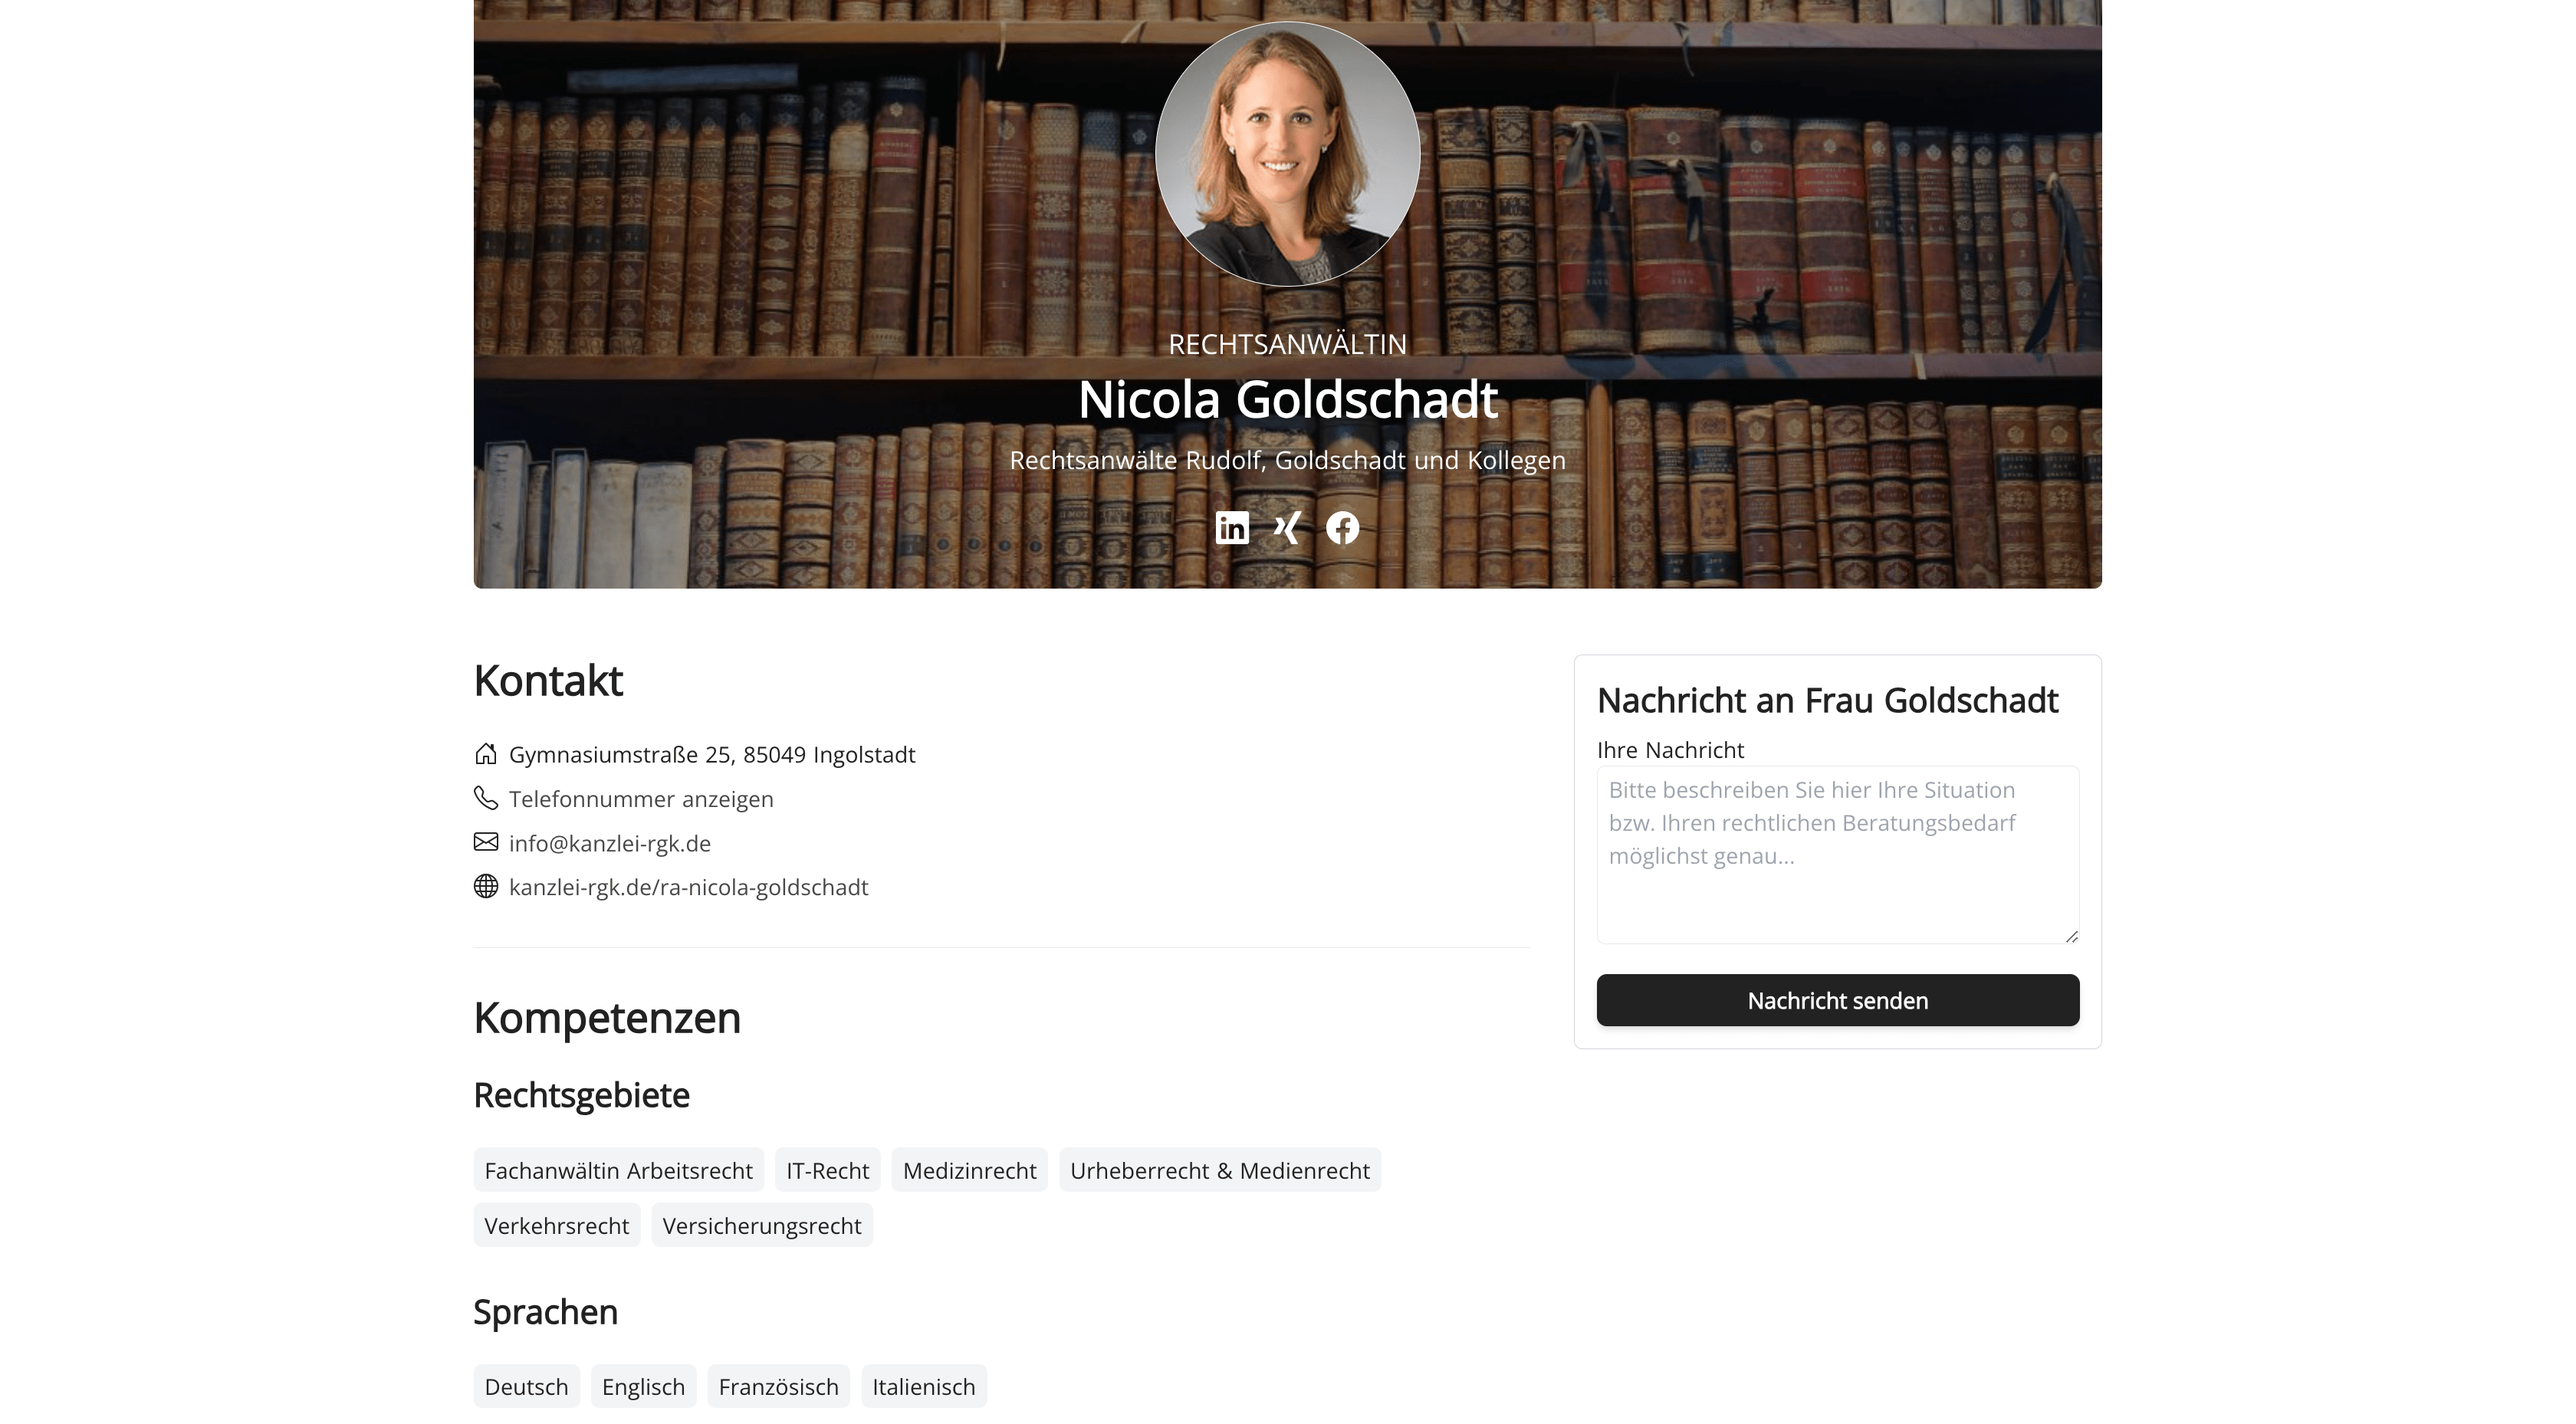
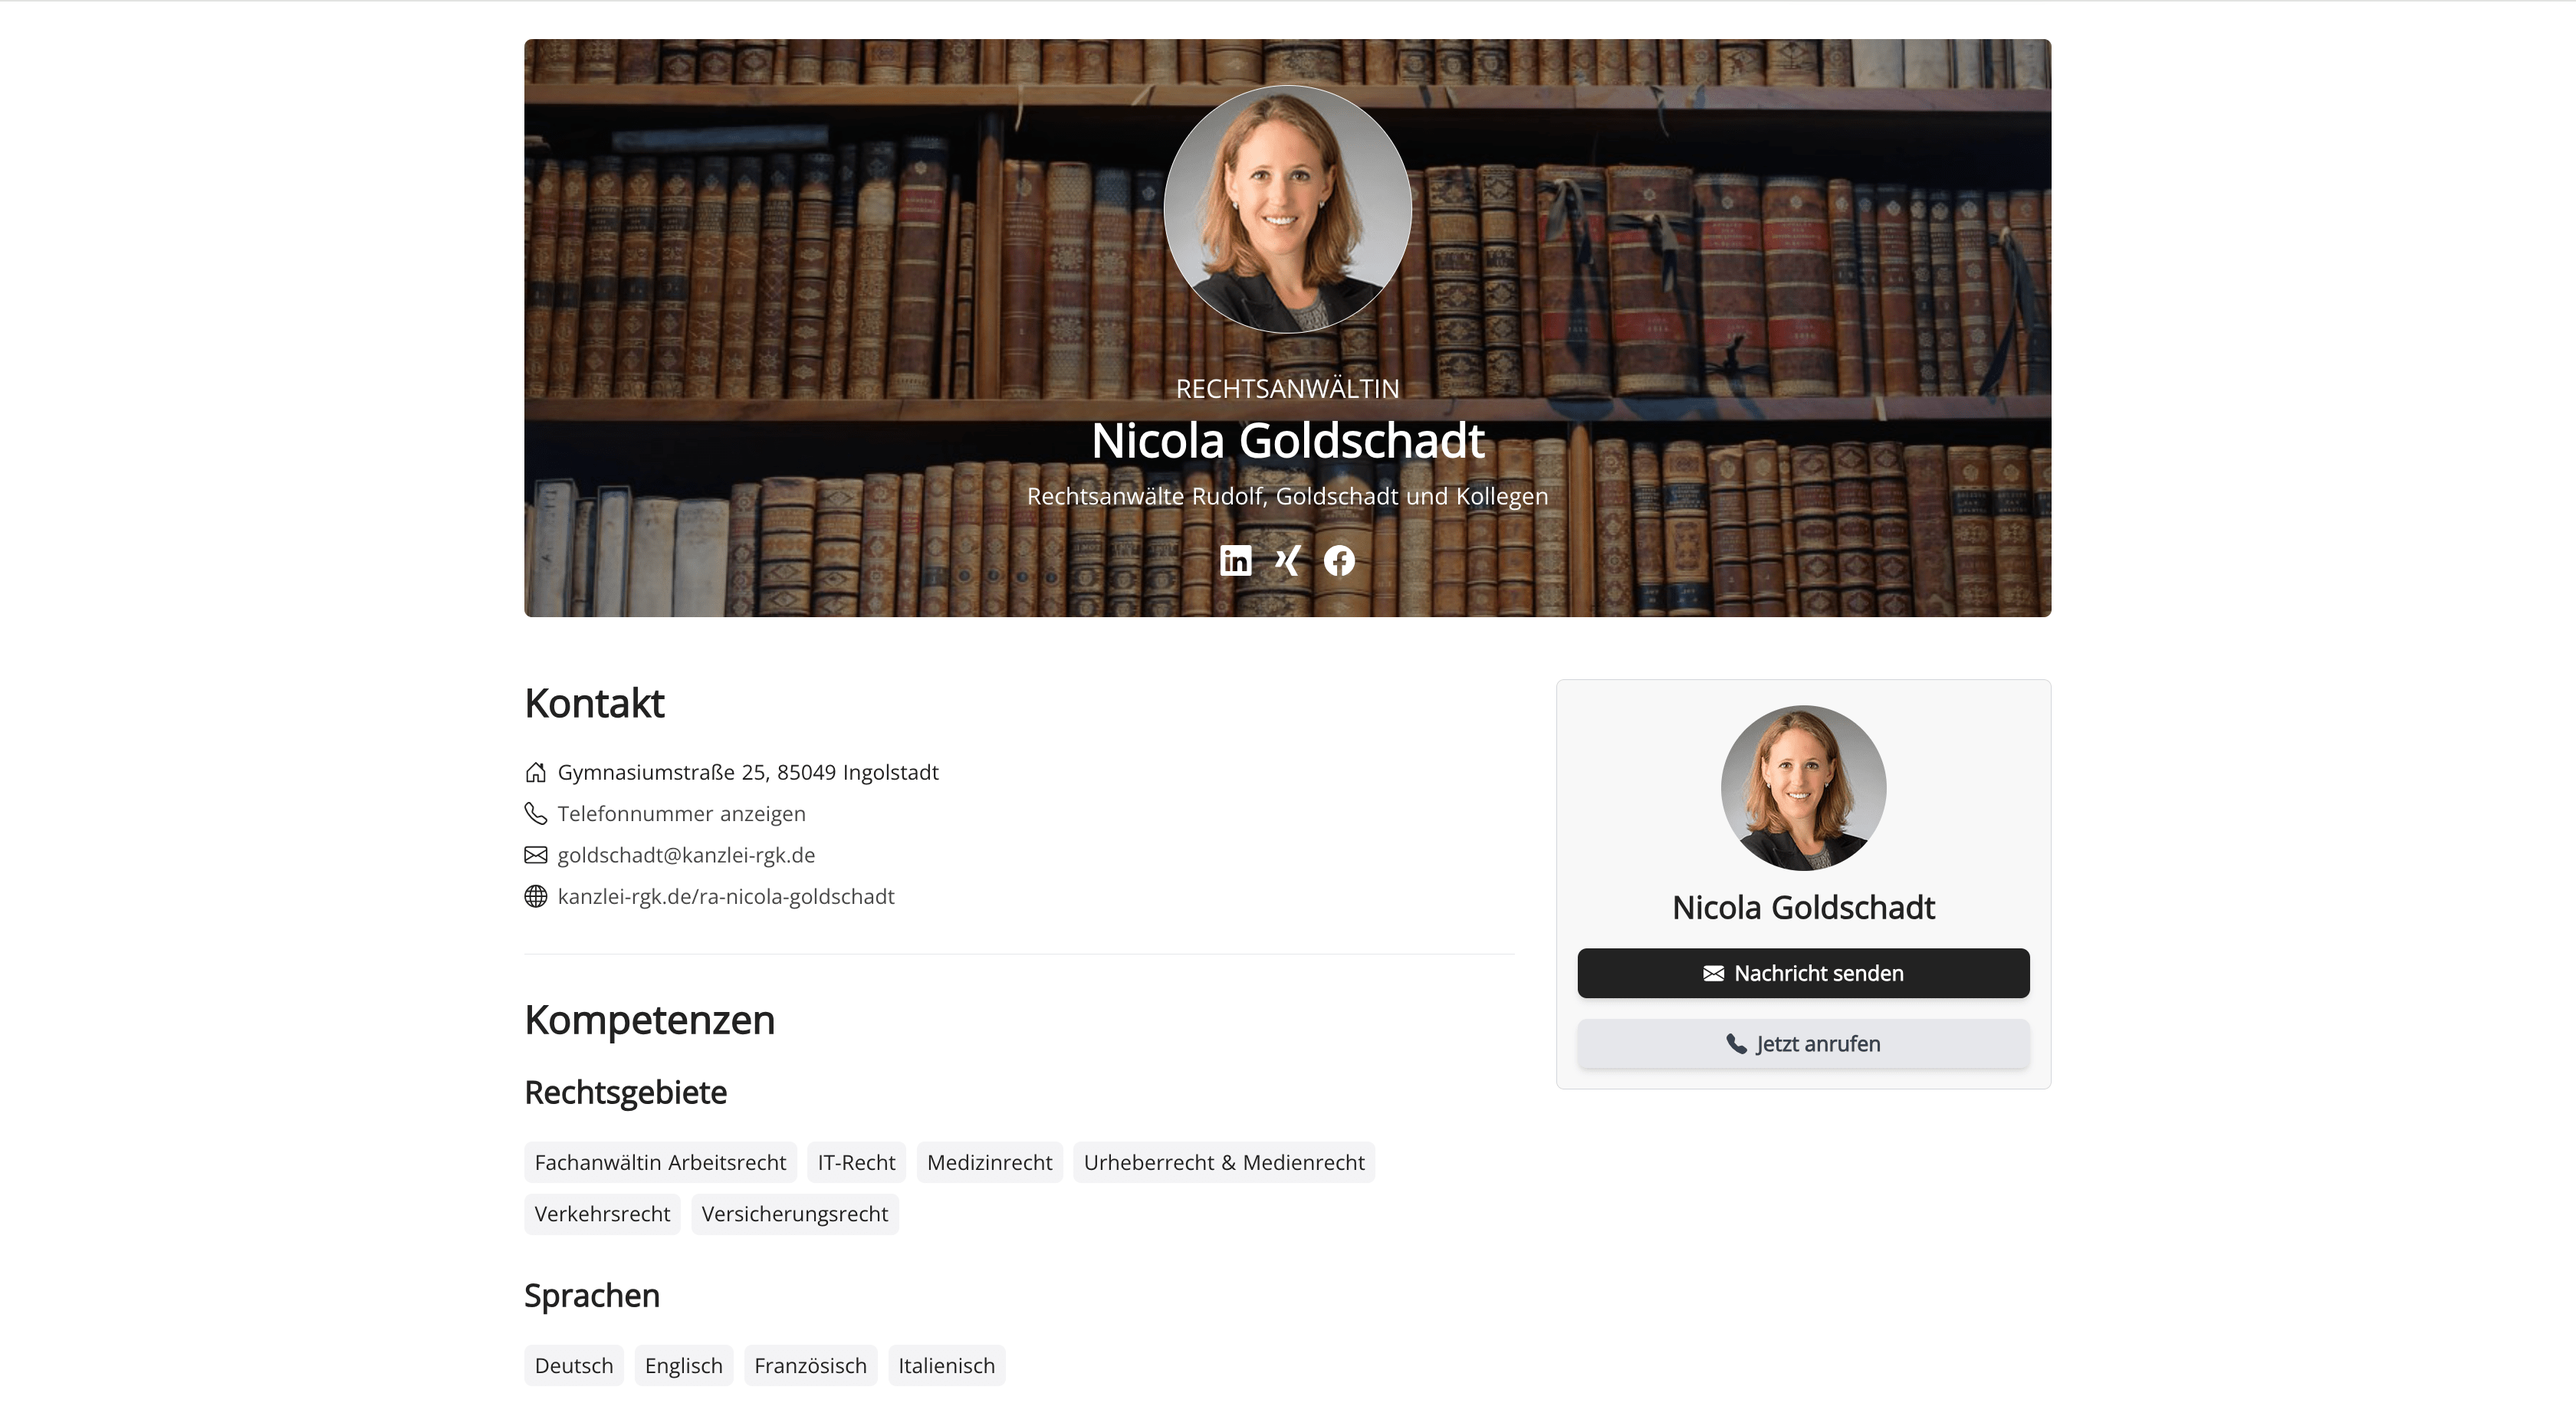
Update

diff --git a/pages/_slug/index.vue b/pages/_slug/index.vue
@@ -224,20 +224,41 @@
         </section>
       </article>
       <div class="hidden lg:block w-full lg:w-1/3">
-        <div class="sticky top-4 border border-gray-300 p-4 rounded-md">
-          <h2 class="text-xl xl:text-2xl mb-2">Nachricht an {{ salutation }}{{ salutation === 'Herr' ? 'n' : '' }} {{ lastName }}</h2>
+        <div class="sticky top-4 border border-gray-300 p-4 rounded-md" style="background-color: #f8f8f8;">
+          <div class="flex justify-center w-full mb-3">
+            <div class="profile-photo bg-cover h-32 w-32 rounded-full" :style="`background-image: url(${photoUrl});`"></div>
+          </div>
+          <h2 class="text-center text-xl xl:text-2xl mb-4">{{ firstName }} {{ lastName }}</h2>
           <form class="flex flex-col space-y-4" @submit.prevent>
-            <fieldset>
-              <label>Ihre Nachricht</label>
-              <textarea class="border px-2 py-1 rounded-md w-full" rows="5" placeholder="Bitte beschreiben Sie hier Ihre Situation bzw. Ihren rechtlichen Beratungsbedarf möglichst genau..." v-model="message" />
-            </fieldset>
-            <Btn @click="processMessage">Nachricht senden</Btn>
+            <Btn @click="processMessage">
+              <svg xmlns="http://www.w3.org/2000/svg" width="18" height="18" fill="currentColor" class="bi bi-envelope-fill" viewBox="0 0 16 16">
+                <path d="M.05 3.555A2 2 0 0 1 2 2h12a2 2 0 0 1 1.95 1.555L8 8.414zM0 4.697v7.104l5.803-3.558zM6.761 8.83l-6.57 4.027A2 2 0 0 0 2 14h12a2 2 0 0 0 1.808-1.144l-6.57-4.027L8 9.586zm3.436-.586L16 11.801V4.697z"/>
+              </svg>
+              <span>Nachricht senden</span>
+            </Btn>
+            <Btn v-if="phoneNumber" type="light" @click="showPhoneNumber = true">
+              <svg xmlns="http://www.w3.org/2000/svg" width="18" height="18" fill="currentColor" class="bi bi-telephone-fill" viewBox="0 0 16 16">
+                <path fill-rule="evenodd" d="M1.885.511a1.745 1.745 0 0 1 2.61.163L6.29 2.98c.329.423.445.974.315 1.494l-.547 2.19a.68.68 0 0 0 .178.643l2.457 2.457a.68.68 0 0 0 .644.178l2.189-.547a1.75 1.75 0 0 1 1.494.315l2.306 1.794c.829.645.905 1.87.163 2.611l-1.034 1.034c-.74.74-1.846 1.065-2.877.702a18.6 18.6 0 0 1-7.01-4.42 18.6 18.6 0 0 1-4.42-7.009c-.362-1.03-.037-2.137.703-2.877z"/>
+              </svg>
+              <span>{{ showPhoneNumber ? nationalPhoneNumber : 'Jetzt anrufen' }}</span>
+            </Btn>
           </form>
         </div>
       </div>
-      <nuxt-link :to="`/${profile.slug}/nachricht`" class="mobile-cta lg:hidden fixed bottom-0 left-0 font-bold shadow-md px-4 py-3 flex justify-center focus:outline-none w-full z-20">
-        Jetzt {{ salutation === 'Frau' ? 'Anwältin' : 'Anwalt' }} fragen
-      </nuxt-link>
+      <div class="lg:hidden bg-white border-t-2 flex space-x-2 p-2 fixed bottom-0 left-0 w-full z-20">
+        <Btn v-if="phoneNumber" type="light" class="w-full" @click="callPhoneNumber">
+          <svg xmlns="http://www.w3.org/2000/svg" width="18" height="18" fill="currentColor" class="bi bi-telephone-fill" viewBox="0 0 16 16">
+            <path fill-rule="evenodd" d="M1.885.511a1.745 1.745 0 0 1 2.61.163L6.29 2.98c.329.423.445.974.315 1.494l-.547 2.19a.68.68 0 0 0 .178.643l2.457 2.457a.68.68 0 0 0 .644.178l2.189-.547a1.75 1.75 0 0 1 1.494.315l2.306 1.794c.829.645.905 1.87.163 2.611l-1.034 1.034c-.74.74-1.846 1.065-2.877.702a18.6 18.6 0 0 1-7.01-4.42 18.6 18.6 0 0 1-4.42-7.009c-.362-1.03-.037-2.137.703-2.877z"/>
+          </svg>
+          <span>Anrufen</span>
+        </Btn>
+        <Btn class="w-full" @click="processMessage">
+          <svg xmlns="http://www.w3.org/2000/svg" width="18" height="18" fill="currentColor" class="bi bi-envelope-fill" viewBox="0 0 16 16">
+            <path d="M.05 3.555A2 2 0 0 1 2 2h12a2 2 0 0 1 1.95 1.555L8 8.414zM0 4.697v7.104l5.803-3.558zM6.761 8.83l-6.57 4.027A2 2 0 0 0 2 14h12a2 2 0 0 0 1.808-1.144l-6.57-4.027L8 9.586zm3.436-.586L16 11.801V4.697z"/>
+          </svg>
+          <span>Nachricht</span>
+        </Btn>
+      </div>
     </div>
   </div>
 </template>
@@ -294,8 +315,7 @@ export default {
 
     return {
       profile,
-      showPhoneNumber: false,
-      message: ''
+      showPhoneNumber: false
     }
   },
   computed: {
@@ -423,6 +443,9 @@ export default {
     },
     processMessage() {
       this.$router.push(`/${this.profile.slug}/nachricht?message=${this.message}`)
+    },
+    callPhoneNumber() {
+      window.open(this.phoneNumberUri)
     }
   }
 }
@@ -444,15 +467,6 @@ export default {
     &:hover {
       @apply underline;
     }
-  }
-}
-
-.mobile-cta {
-  @apply text-white;
-  background: #222222;
-
-  &:hover {
-    @apply text-white no-underline;
   }
 }
 
